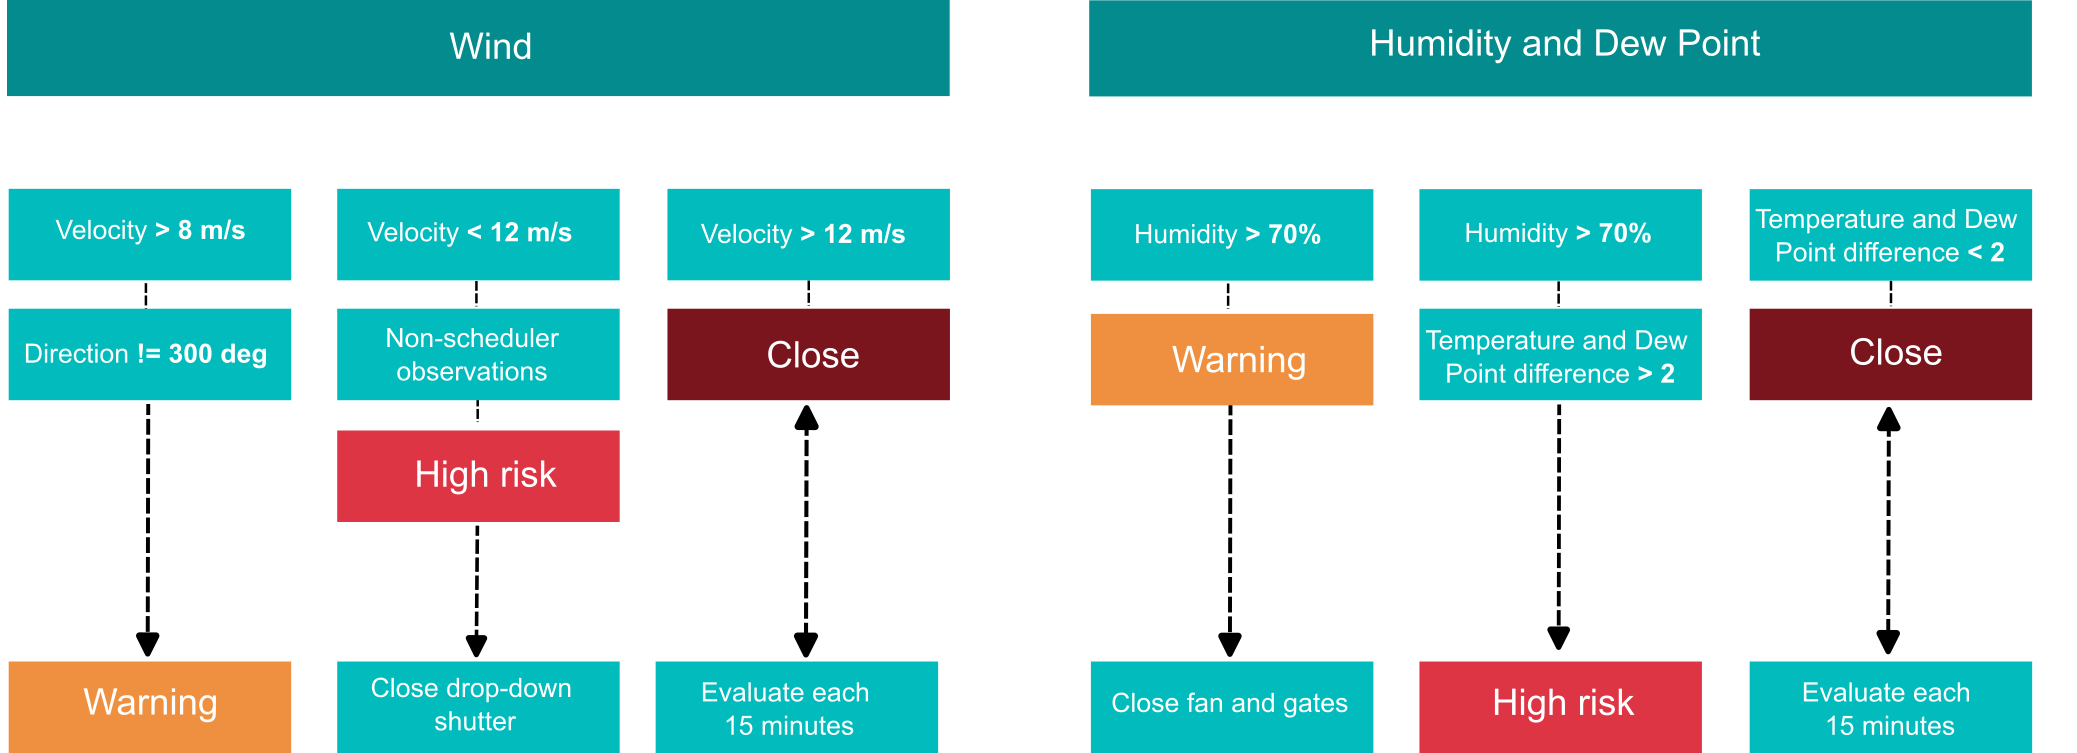
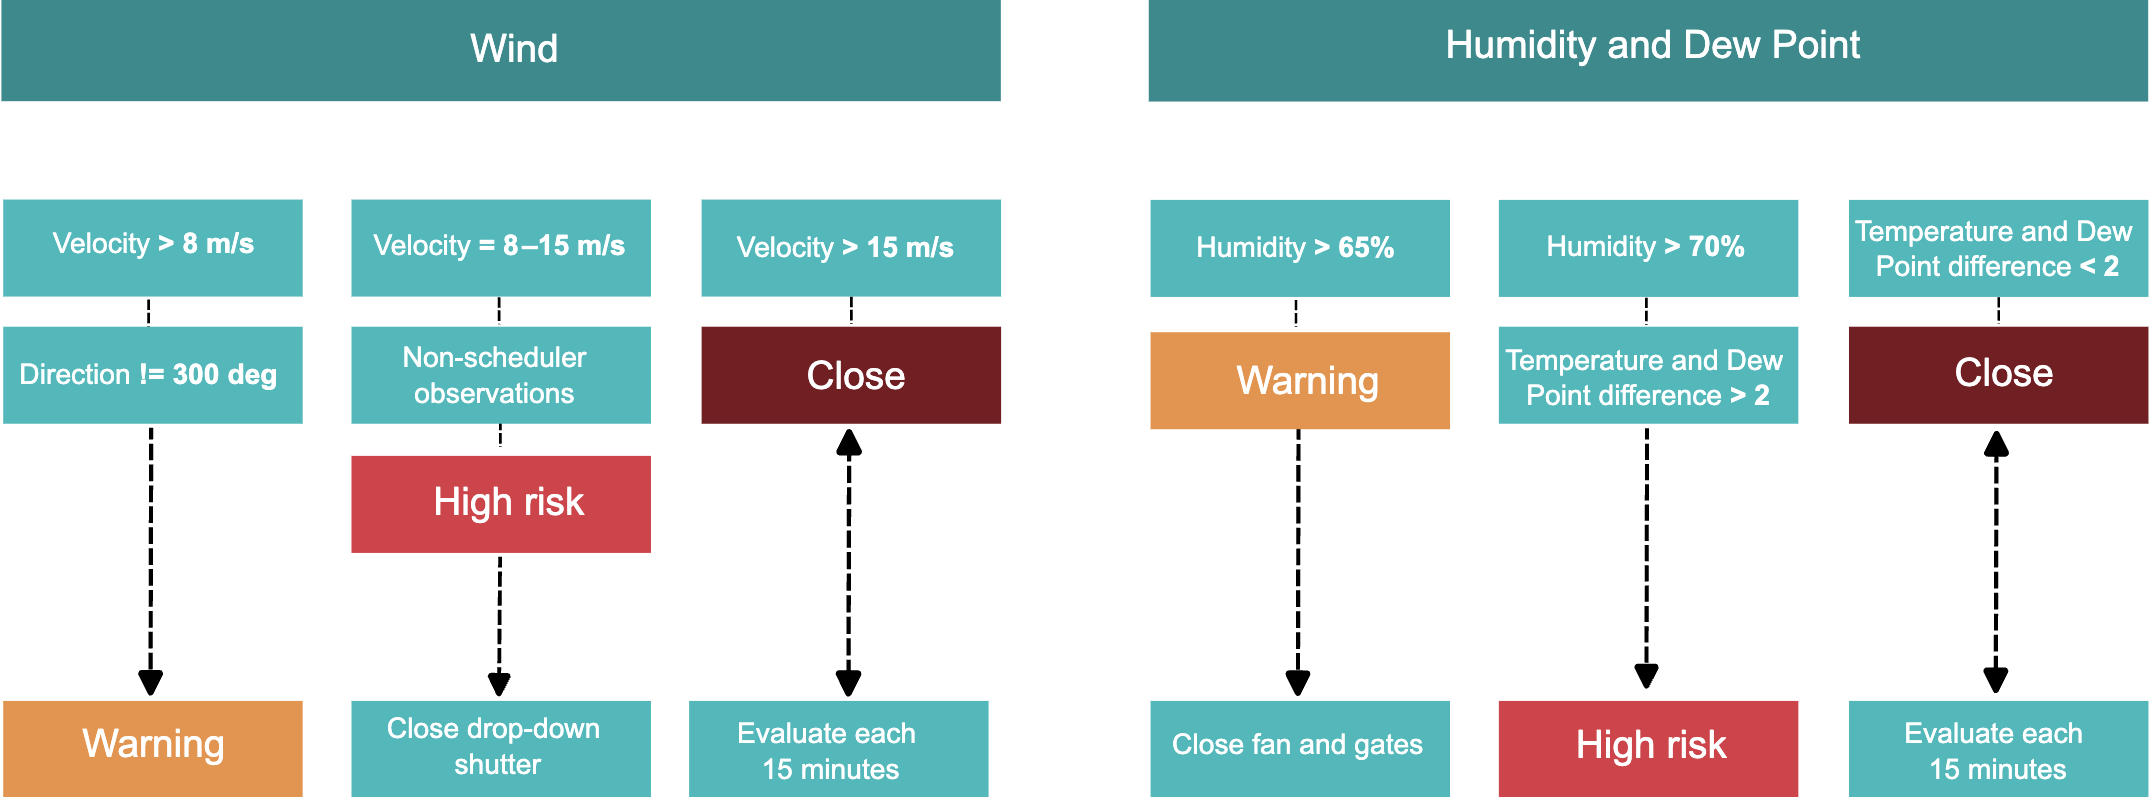
Updated AuxTel weather constraint diagram with wind speeds & humidity.
Updated AuxTel overview image based on new wind conditions.

Added weather constraint graphic to the weather constraints page for AuxTel.

Updated AuxTel weater constraint images again.

Updated AuxTel weather constraints with new wind speeds.

diff --git a/Observing-Constraints/AuxTel/index.rst b/Observing-Constraints/AuxTel/index.rst
@@ -62,6 +62,16 @@ If the humidity is above 70%, go outside and look for incoming cloud fronts, and
 Be more cautious to open if there will not be someone in the control room to monitor changing weather conditions, 
 e.g. opening before going to dinner, or leaving the control room to complete another task.
 
+The following graphic provides a quick reference to the weather conditions and their equivalent risk states. 
+For more details as to the necessary actions, continue reading the :ref:`auxtel-weather-constraints-wind` and 
+:ref:`auxtel-weather-constraints-humidity-and-dew-point` constraint sections.
+
+.. figure:: /AuxTel/_static/AuxTel_weather_constraints.png
+   :align: center
+   :alt: AuxTel weather constraints overview
+
+.. For the left-hand side navigation menu 
+
 .. warning::
     Vent gates:
         The vent gates on the first floor of the AuxTel dome can add turbulence if winds are high. 
